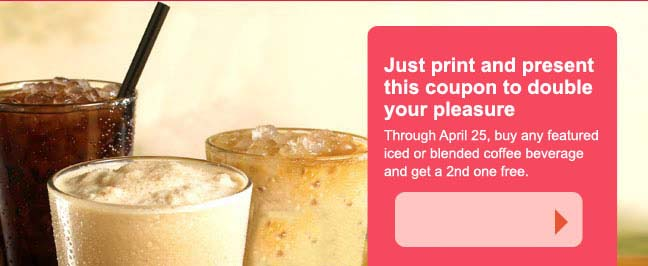
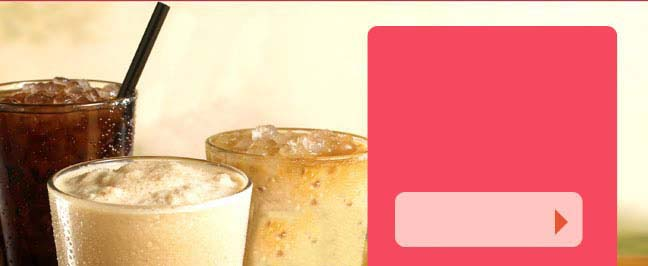
Fix IE8 CSS issues

Changed region(s): [[0.5864, 0.4812, 0.9259, 0.6917], [0.5864, 0.2105, 0.9259, 0.3609], [0.5864, 0.391, 0.8025, 0.4511]]

diff --git a/Week_1/Assignment_1/index.html b/Week_1/Assignment_1/index.html
@@ -2,34 +2,34 @@
 <html class="no-js" lang="">
     <head>
         <meta charset="utf-8">
+        <meta http-equiv="x-ua-compatible" content="ie=edge">
         <title>Assignment 1 | Jenna Murphy</title>
 
         <link rel="stylesheet" href="css/main.css">
+        <script src="js/vendor/modernizr-2.8.3.min.js"></script>
         <script type="text/javascript">
         	setTimeout("alert('Print Now!')", 5000);
         </script>
     </head>
     <body>
-    	<section>
+    	<section id="main">
     		
     		<header>
         		<h1>Cool down, wake up!</h1>
         		<h2>2-for-1 Cold Beverages</h2>
         	</header>
         	
-        	<article>
-        		<figure>
+        	<figure>
         			<img src="img/IDM6620-Week1-Assignment-Start_02.jpg" alt="coffee background">
         			<figcaption>
         				<p>Just print and present this coupon to double your pleasure</p>
         				<p>Through April 25, buy any featured iced or blended coffee beverage and get a 2nd one free</p>
-        				<article>
+        				<section id="link">
         					<a href="#">Spread 
         					<br>the Word!</a>
-        				</article>
+        				</section>
         			</figcaption>
-        		</figure>
-        	</article>
+        	</figure>
         
         </section>
         

diff --git a/Week_1/Assignment_1/css/main.css b/Week_1/Assignment_1/css/main.css
@@ -96,12 +96,14 @@ textarea {
    ========================================================================== */
 body {
 	max-width: 648px;
+    height: 394px;
 	position: fixed;
+	color: #FFF;
 }
+
 header {
 	font-family: "Times New Roman", serif; 
 	background-color: #c93042;
-	color: #FFF;
 	text-align: center;
 	padding: 10px;
 }
@@ -124,26 +126,31 @@ figure {
 }
 
 figcaption {
+	width: 235px;
+	height: 165px;
 	position: absolute;
 	bottom: 75px;
-	left: 380px;
-	right: 40px;
+	left: 365px;
 	top: 26px;
 	font-family: Arial;
 	color: white;
-	background-color: #f6485f;
 	padding: 0px 15px;
 }
 
 figcaption p:first-child {
 	font-size: 1.2em;
+	padding-top: 20px;
+
 }
 
-figcaption p {
-	font-size: .8em;
+figure p {
+	font-size: .85em;
+	margin: 0px;
+	padding: 3px;
 }
 
-figcaption article {
+#link {
+	margin: 15px 15px 0px 0px;;
 	text-align: center;
 	font-family: "Times New Roman", serif; 
 	font-size: 1.2em;
@@ -151,11 +158,10 @@ figcaption article {
 
 }
 
-figcaption article a {
+#link a {
 	color: #552413;
 	text-decoration: none;
 }
-
 
 
 
